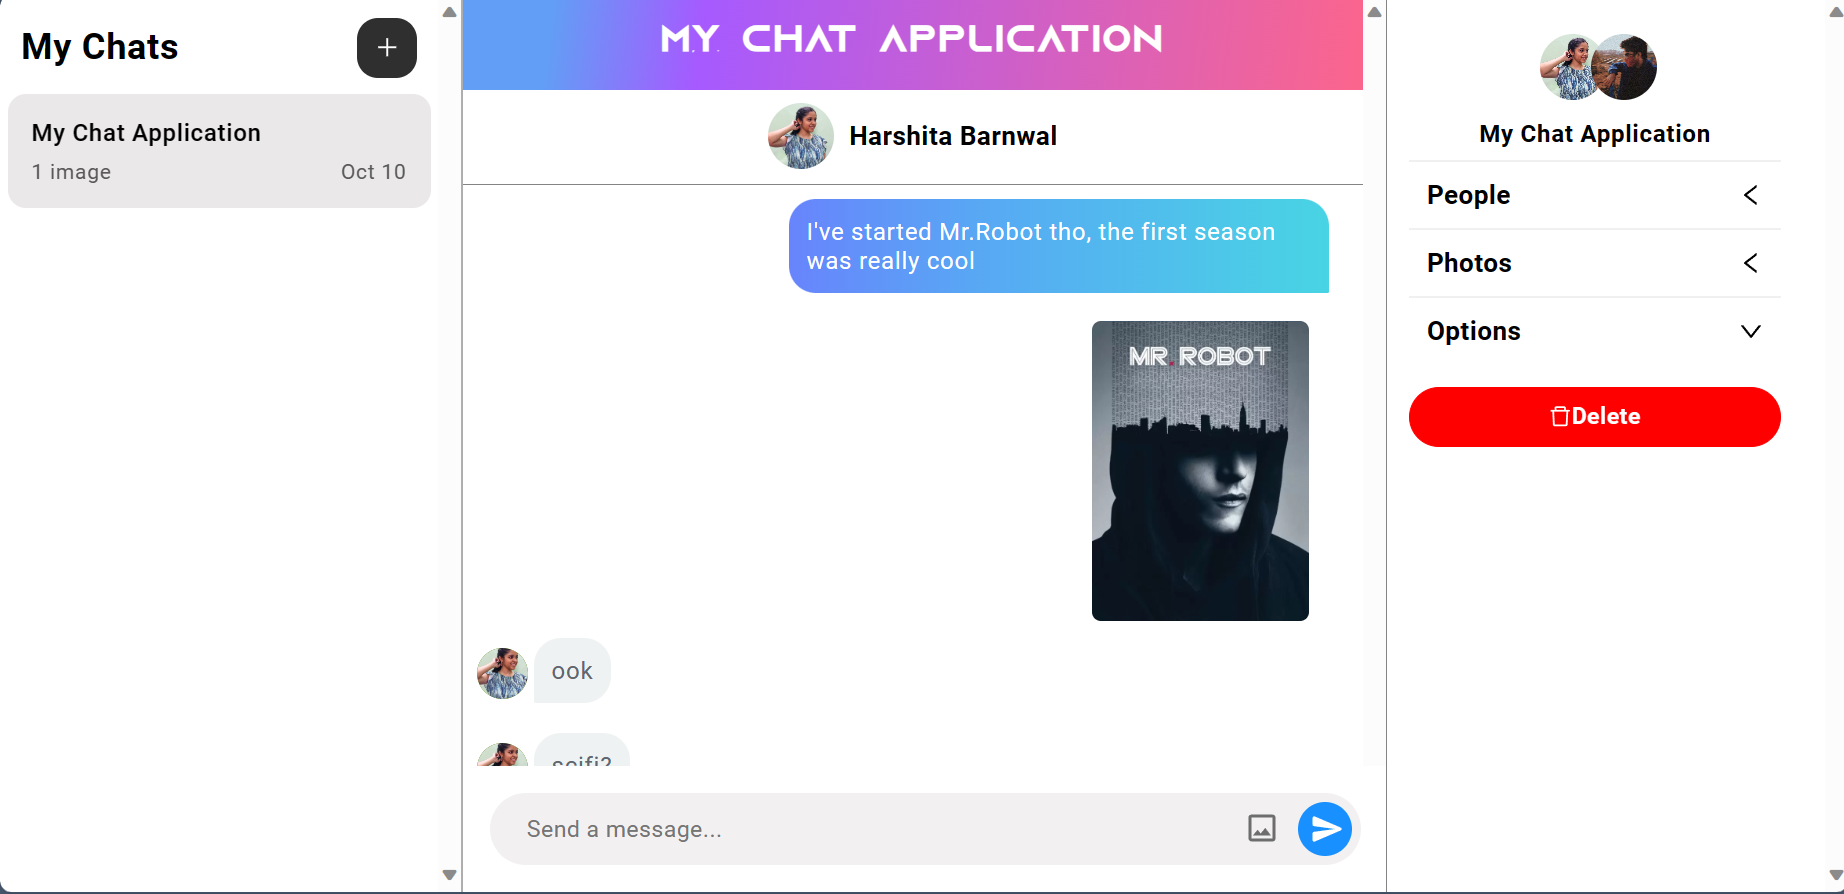
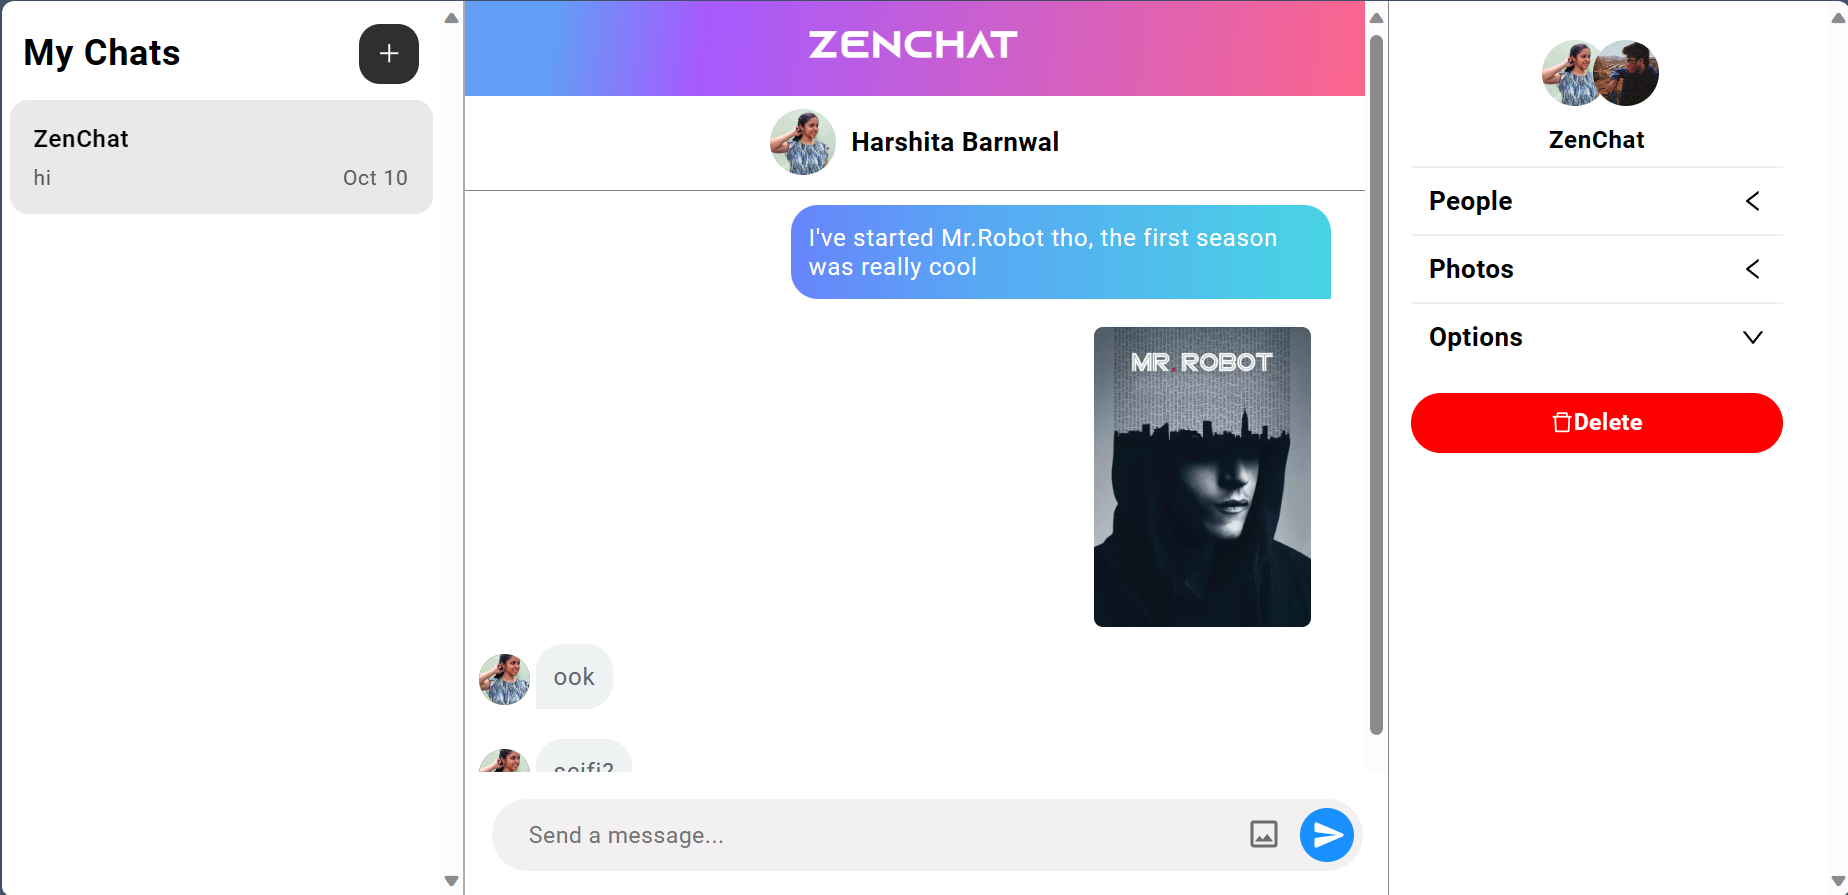
Added Readme

diff --git a/README.md b/README.md
@@ -1,4 +1,4 @@
-<h1 align="center">Real-Time Chat Application</h1>
+<h1 align="center">ZenChat: Real-Time Chat Application</h1>
 
 <p>Explore the world of dynamic communication with our Real-Time Chat App built using React and Chat Engine. This GitHub repository houses a feature-rich chat application, enabling seamless messaging, media sharing, and dynamic updates in a modern user interface. </p>
 
